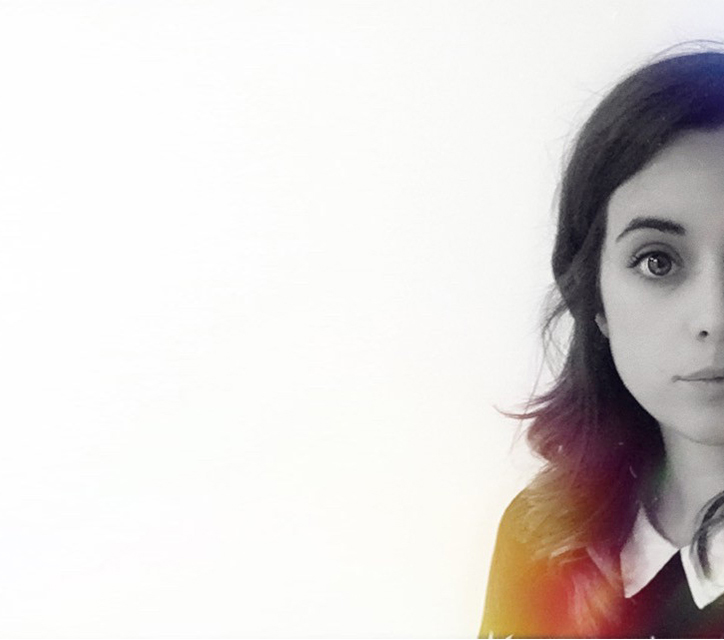
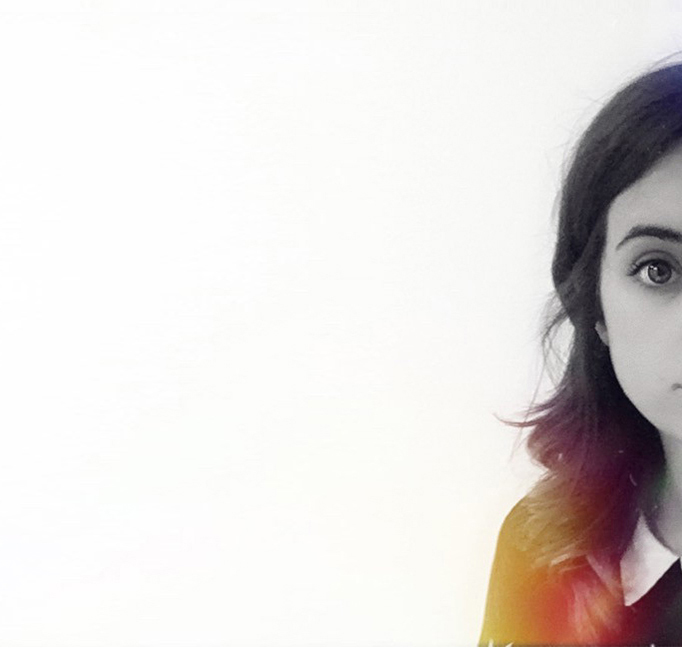
change photo mobile

Changed region(s): [[0.6466, 0.0625, 1.0, 1.0]]

diff --git a/docs/assets/css/main.css b/docs/assets/css/main.css
@@ -1,1 +1,1 @@
-*{margin:0;padding:0;list-style:none;text-decoration:none;border:none;outline:none;box-sizing:border-box}body{background-color:#242323;font-family:"Roboto",sans-serif;color:white;scroll-margin-top:50px}html{scroll-behavior:smooth}.header{width:100%;height:51px;background-color:#242323;position:fixed;top:0px;z-index:99}.header_hamburger{position:absolute;right:0;background-color:transparent;padding:15px 15px 12px 15px;transition:transform 0.25s cubic-bezier(0.05, 1.04, 0.72, 0.98);z-index:1002;cursor:pointer}.header_hamburger-line{background:white;margin-bottom:4px;border-radius:2px;width:28px;height:4px;opacity:1;transition:all 0.25s cubic-bezier(0.05, 1.04, 0.72, 0.98)}.header_hamburger:hover .top{transform:translateY(-100%)}.header_hamburger:hover .bottom{transform:translateY(100%)}.header_hamburger.is-active .top{transform:translateY(200%) rotate(45deg)}.header_hamburger.is-active .mid{opacity:0}.header_hamburger.is-active .bottom{transform:translateY(-200%) rotate(135deg)}.header_nav.is_active{transform:translate3d(0px, 0px, 0px)}.header_nav{background-color:#242323;height:100vh;position:absolute;right:0;opacity:0.9;transform:translate3d(0px, -100%, 0px);transition:transform 0.35s cubic-bezier(0.05, 1.04, 0.72, 0.98) 0s;z-index:1001}.header_nav_list{padding:80px 40px 40px 40px}.header_nav_list-title{text-align:right;font-weight:bold;padding-bottom:20px;font-size:1.5rem}.header_nav_list-title a{color:white}.header_nav_list-title a:hover{color:#f2bd1e}.main_sectionPhoto{padding:40px 30px;margin-top:50px;background-image:url("./../images/headerPhotosmall.jpg");background-size:cover;background-position:right center;height:80vh;scroll-margin-top:50px;color:#242323}@media (min-width: 768px){.main_sectionPhoto{padding:100px 60px;height:95vh}}@media (min-width: 1200px){.main_sectionPhoto{background-image:url("./../images/headerPhoto.jpg");padding:100px 100px}}.main_sectionPhoto-wrap{width:55%}@media (min-width: 768px){.main_sectionPhoto-wrap{width:60%}}@media (min-width: 1200px){.main_sectionPhoto-wrap{width:45%;max-width:1280px}}.main_sectionPhoto-wrap-title{font-size:30px;letter-spacing:10px;line-height:40px;font-weight:900;padding-bottom:20px}.main_sectionPhoto-wrap-title span{color:#f2bd1e}@media (min-width: 768px){.main_sectionPhoto-wrap-title{font-size:80px;letter-spacing:15px;line-height:100px;font-weight:900;padding-bottom:60px}}.main_sectionPhoto-wrap-subtitle{font-family:"Heebo",sans-serif;font-size:14px;line-height:24px;letter-spacing:3px;padding-bottom:20px}@media (min-width: 768px){.main_sectionPhoto-wrap-subtitle{font-size:24px;line-height:40px;letter-spacing:5px;padding-bottom:60px}}.main_sectionPhoto-wrap-description{font-family:"Heebo",sans-serif;font-size:9px;letter-spacing:1px;text-align:justify;width:90%}@media (min-width: 768px){.main_sectionPhoto-wrap-description{font-size:14px;letter-spacing:1.5px}}@media (min-width: 1200px){.main_sectionPhoto-wrap-description{font-size:18px;letter-spacing:2px}}.main_sectionEducation{background-color:#242323;color:white;scroll-margin-top:50px}.main_sectionEducation-title{text-align:center;font-weight:900;letter-spacing:3px;text-transform:uppercase;font-size:20px;padding:15px}@media (min-width: 768px){.main_sectionEducation-title{font-size:36px;padding:30px}}.main_sectionEducation-title span{color:#f2bd1e}.main_sectionEducation-list{color:#242323;padding-bottom:15px}.main_sectionEducation-list span{font-weight:bolder}@media (min-width: 768px){.main_sectionEducation-list{display:flex;flex-direction:column;align-items:center;padding-bottom:30px}}.main_sectionEducation-list .elementList{max-width:1000px;margin:auto;padding:7.5px 15px}@media (min-width: 768px){.main_sectionEducation-list .elementList{width:80vw;font-size:1.5rem}}.main_sectionEducation-list .elementList-date{font-size:12px;border-bottom:solid 1px black;padding:5px 0px;opacity:0.8}.main_sectionEducation-list .elementList-location{font-size:14px;padding:2.5px 0px 2.5px 0px}.main_sectionEducation-list .elementList-description{font-size:12px;padding:5px 0px 0px 10px}.main_sectionEducation-list-element1{background-color:#f2bd1e}.main_sectionEducation-list-element2{background-color:#dead1e}.main_sectionEducation-list-element3{background-color:#c99e1f}.main_sectionProfesional{background-image:url("./../images/profesional.png");background-size:cover;background-position:center center;scroll-margin-top:50px}@media (min-width: 768px){.main_sectionProfesional{display:flex;flex-direction:column;align-items:center;padding-bottom:30px}}.main_sectionProfesional_title{text-align:center;font-weight:900;letter-spacing:3px;text-transform:uppercase;font-size:20px;padding:15px}@media (min-width: 768px){.main_sectionProfesional_title{font-size:36px;padding:30px}}.main_sectionProfesional_title span{color:black}.main_sectionProfesional_developmentSoftware,.main_sectionProfesional_designSoftware{margin-bottom:25px}@media (min-width: 768px){.main_sectionProfesional_developmentSoftware,.main_sectionProfesional_designSoftware{width:80vw;font-size:1rem}}.main_sectionProfesional_developmentSoftware-title,.main_sectionProfesional_designSoftware-title{text-align:center;font-weight:400;color:#c99e1f;padding-bottom:10px}@media (min-width: 768px){.main_sectionProfesional_developmentSoftware-title,.main_sectionProfesional_designSoftware-title{font-size:22px}}.main_sectionProfesional_developmentSoftware-list,.main_sectionProfesional_designSoftware-list{padding:0px 15px 0px 15px;display:flex;flex-wrap:wrap;justify-content:center}.main_sectionProfesional_developmentSoftware-list-element,.main_sectionProfesional_designSoftware-list-element{padding:5px 10px;text-align:center;font-family:"Heebo",sans-serif;font-weight:400}.main_sectionProfesional_developmentSoftware-list-element i,.main_sectionProfesional_designSoftware-list-element i{padding-right:5px;color:#f2bd1e}@media (min-width: 768px){.main_sectionProfesional_developmentSoftware-list-element i,.main_sectionProfesional_designSoftware-list-element i{font-size:20px}}.main_sectionProfesional_skills{background-color:#242323;padding:15px;max-width:1000px;margin:auto}@media (min-width: 768px){.main_sectionProfesional_skills{width:80vw;font-size:1rem;height:130px;padding:25px}}.main_sectionProfesional_skills-title{color:#f2bd1e;position:absolute;padding:10px;height:100px;transform:rotate(-90deg)}@media (min-width: 768px){.main_sectionProfesional_skills-title{padding:0px;height:80px}}.main_sectionProfesional_skills-list{text-align:center}@media (min-width: 768px){.main_sectionProfesional_skills-list{display:grid;grid-template-columns:1fr 1fr 1fr;grid-template-rows:1fr 1fr 1fr}}.main_sectionProfesional_skills-list-element{padding:5px 10px;font-weight:lighter;text-align:center;font-size:14px}.main_sectionProfesional_skills-list-element div{font-size:12px;text-align:left;padding-left:5px;width:80%;height:15px;background-color:#f2bd1e;color:#242323}.main_sectionExperience{background-image:url("./../images/experience.png");background-size:cover;background-position:center center;color:#242323;background-color:white;scroll-margin-top:50px}.main_sectionExperience_title{text-align:center;font-weight:900;letter-spacing:3px;text-transform:uppercase;font-size:20px;color:#d3d3d3;padding:15px}.main_sectionExperience_title span{color:#242323}@media (min-width: 768px){.main_sectionExperience_title{font-size:36px;padding:30px}}.main_sectionExperience_list{max-width:1200px;margin:auto}.main_sectionExperience_list-element:nth-child(even){text-align:left}@media (min-width: 768px){.main_sectionExperience_list-element:nth-child(even){margin-left:50%;padding-left:30px;padding-right:100px}}.main_sectionExperience_list-element:nth-child(odd){text-align:right}@media (min-width: 768px){.main_sectionExperience_list-element:nth-child(odd){margin-right:50%;padding-right:30px;padding-left:100px}}.main_sectionExperience_list-element-date{color:#f2bd1e;font-weight:bold;font-size:14px;padding-bottom:5px;text-transform:uppercase}.main_sectionExperience_list-element-job{padding-bottom:5px}.main_sectionExperience_list-element-company{padding-bottom:5px;font-weight:inherit}.main_sectionExperience_list-element-description{font-size:14px;font-weight:lighter;padding-bottom:20px;text-align:justify}.main_sectionPortfolio{background-color:#f2bd1e;padding-bottom:15px;scroll-margin-top:50px}@media (min-width: 768px){.main_sectionPortfolio{padding-bottom:20px}}.main_sectionPortfolio_title{text-align:center;font-weight:900;letter-spacing:3px;text-transform:uppercase;font-size:20px;color:white;padding:15px}.main_sectionPortfolio_title span{color:#242323}@media (min-width: 768px){.main_sectionPortfolio_title{font-size:36px;padding:30px}}.main_sectionPortfolio_subtitle{font-weight:normal;text-align:center;padding-bottom:10px}.main_sectionPortfolio_subtitle a{color:#242323;cursor:pointer}@media (min-width: 768px){.main_sectionPortfolio_subtitle{font-size:1.2rem;padding-bottom:20px}}.main_sectionPortfolio_list{padding:0px 15px;display:flex;justify-content:center;flex-wrap:wrap}.main_sectionPortfolio_list-element{padding:15px;background-color:#242323;border-radius:5px;margin:10px;text-align:center;width:240px}.main_sectionPortfolio_list-element h4{padding-bottom:10px;font-size:16px;font-weight:400;text-transform:uppercase}.main_sectionPortfolio_list-element img{width:100%;border-radius:5px;margin-bottom:10px}.main_sectionPortfolio_list-element p{font-family:"Heebo",sans-serif;font-weight:100;line-height:14px;font-size:12px}.main_sectionPortfolio_list-element i{padding:15px 15px 0px 15px;font-size:24px;color:white}.main_sectionPortfolio_list-element i:hover{color:#f2bd1e}.main_sectionContact{color:#242323;background-color:white;padding-bottom:15px;scroll-margin-top:50px}@media (min-width: 768px){.main_sectionContact{padding-bottom:30px}}.main_sectionContact_title{text-align:center;font-weight:900;letter-spacing:3px;text-transform:uppercase;font-size:20px;color:#242323;padding:15px}.main_sectionContact_title span{color:#f2bd1e}@media (min-width: 768px){.main_sectionContact_title{font-size:36px;padding:30px}}.main_sectionContact_subtitle{text-align:center;font-weight:lighter;padding-bottom:10px}@media (min-width: 768px){.main_sectionContact_subtitle{padding-bottom:20px;font-size:18px}}.main_sectionContact_list{max-width:1200px;margin:auto}@media (min-width: 768px){.main_sectionContact_list{display:grid;grid-template-columns:repeat(3, 33.33%);padding:0 10%}}.main_sectionContact_list-element{padding:20px;text-align:center;color:white}@media (min-width: 768px){.main_sectionContact_list-element{height:250px;display:flex;justify-content:center;align-items:center}}.main_sectionContact_list-element i{font-size:34px;padding-bottom:10px}@media (min-width: 768px){.main_sectionContact_list-element i{font-size:46px}}.main_sectionContact_list-element a{color:white;cursor:pointer}.main_sectionContact_list-element.mail{background-image:url("./../images/contact.png");background-size:cover;background-position:center center;background-color:white;color:#242323}.main_sectionContact_list-element.mail a{color:#242323}.main_sectionContact_list-element.phone{background-image:url("./../images/phone.png");background-size:cover;background-position:center center;background-color:#f2bd1e}.main_sectionContact_list-element.linkedin{background-image:url("./../images/linkedin.png");background-size:cover;background-position:center center;background-color:#d3d3d3}.footer{padding:15px;text-align:center;color:#d3d3d3;font-weight:lighter;font-size:0.8rem}.menu-up{width:50px;height:50px;border-radius:25px;background-color:#242323;z-index:99;position:fixed;bottom:50px;right:40px}.menu-up i{font-size:30px;color:#f2bd1e;padding:10px}
+*{margin:0;padding:0;list-style:none;text-decoration:none;border:none;outline:none;box-sizing:border-box}body{background-color:#242323;font-family:"Roboto",sans-serif;color:white;scroll-margin-top:50px}html{scroll-behavior:smooth}.header{width:100%;height:51px;background-color:#242323;position:fixed;top:0px;z-index:99}.header_hamburger{position:absolute;right:0;background-color:transparent;padding:15px 15px 12px 15px;transition:transform 0.25s cubic-bezier(0.05, 1.04, 0.72, 0.98);z-index:1002;cursor:pointer}.header_hamburger-line{background:white;margin-bottom:4px;border-radius:2px;width:28px;height:4px;opacity:1;transition:all 0.25s cubic-bezier(0.05, 1.04, 0.72, 0.98)}.header_hamburger:hover .top{transform:translateY(-100%)}.header_hamburger:hover .bottom{transform:translateY(100%)}.header_hamburger.is-active .top{transform:translateY(200%) rotate(45deg)}.header_hamburger.is-active .mid{opacity:0}.header_hamburger.is-active .bottom{transform:translateY(-200%) rotate(135deg)}.header_nav.is_active{transform:translate3d(0px, 0px, 0px)}.header_nav{background-color:#242323;height:100vh;position:absolute;right:0;opacity:0.9;transform:translate3d(0px, -100%, 0px);transition:transform 0.35s cubic-bezier(0.05, 1.04, 0.72, 0.98) 0s;z-index:1001}.header_nav_list{padding:80px 40px 40px 40px}.header_nav_list-title{text-align:right;font-weight:bold;padding-bottom:20px;font-size:1.5rem}.header_nav_list-title a{color:white}.header_nav_list-title a:hover{color:#f2bd1e}.main_sectionPhoto{padding:40px 30px;margin-top:50px;background-image:url("./../images/headerPhotosmall.jpg");background-size:cover;background-position:right center;height:70vh;scroll-margin-top:50px;color:#242323}@media (min-width: 768px){.main_sectionPhoto{padding:100px 60px;background-image:url("./../images/headerPhotosmall.jpg");height:95vh}}@media (min-width: 1200px){.main_sectionPhoto{background-image:url("./../images/headerPhoto.jpg");padding:100px 100px}}.main_sectionPhoto-wrap{width:60%}@media (min-width: 1200px){.main_sectionPhoto-wrap{width:45%;max-width:1280px}}.main_sectionPhoto-wrap-title{font-size:30px;letter-spacing:10px;line-height:40px;font-weight:900;padding-bottom:20px}.main_sectionPhoto-wrap-title span{color:#f2bd1e}@media (min-width: 768px){.main_sectionPhoto-wrap-title{font-size:80px;letter-spacing:15px;line-height:100px;font-weight:900;padding-bottom:60px}}.main_sectionPhoto-wrap-subtitle{font-family:"Heebo",sans-serif;font-size:14px;line-height:20px;letter-spacing:3px;padding-bottom:20px}@media (min-width: 768px){.main_sectionPhoto-wrap-subtitle{font-size:24px;line-height:40px;letter-spacing:5px;padding-bottom:60px}}.main_sectionPhoto-wrap-description{font-family:"Heebo",sans-serif;font-size:9px;letter-spacing:1px;text-align:justify;width:90%}@media (min-width: 768px){.main_sectionPhoto-wrap-description{font-size:14px;letter-spacing:1.5px}}@media (min-width: 1200px){.main_sectionPhoto-wrap-description{font-size:18px;letter-spacing:2px}}.main_sectionEducation{background-color:#242323;color:white;scroll-margin-top:50px}.main_sectionEducation-title{text-align:center;font-weight:900;letter-spacing:3px;text-transform:uppercase;font-size:20px;padding:15px}@media (min-width: 768px){.main_sectionEducation-title{font-size:36px;padding:30px}}.main_sectionEducation-title span{color:#f2bd1e}.main_sectionEducation-list{color:#242323;padding-bottom:15px}.main_sectionEducation-list span{font-weight:bolder}@media (min-width: 768px){.main_sectionEducation-list{display:flex;flex-direction:column;align-items:center;padding-bottom:30px}}.main_sectionEducation-list .elementList{max-width:1000px;margin:auto;padding:7.5px 15px}@media (min-width: 768px){.main_sectionEducation-list .elementList{width:80vw;font-size:1.5rem}}.main_sectionEducation-list .elementList-date{font-size:12px;border-bottom:solid 1px black;padding:5px 0px;opacity:0.8}.main_sectionEducation-list .elementList-location{font-size:14px;padding:2.5px 0px 2.5px 0px}.main_sectionEducation-list .elementList-description{font-size:12px;padding:5px 0px 0px 10px}.main_sectionEducation-list-element1{background-color:#f2bd1e}.main_sectionEducation-list-element2{background-color:#dead1e}.main_sectionEducation-list-element3{background-color:#c99e1f}.main_sectionProfesional{background-image:url("./../images/profesional.png");background-size:cover;background-position:center center;scroll-margin-top:50px}@media (min-width: 768px){.main_sectionProfesional{display:flex;flex-direction:column;align-items:center;padding-bottom:30px}}.main_sectionProfesional_title{text-align:center;font-weight:900;letter-spacing:3px;text-transform:uppercase;font-size:20px;padding:15px}@media (min-width: 768px){.main_sectionProfesional_title{font-size:36px;padding:30px}}.main_sectionProfesional_title span{color:black}.main_sectionProfesional_developmentSoftware,.main_sectionProfesional_designSoftware{margin-bottom:25px}@media (min-width: 768px){.main_sectionProfesional_developmentSoftware,.main_sectionProfesional_designSoftware{width:80vw;font-size:1rem}}.main_sectionProfesional_developmentSoftware-title,.main_sectionProfesional_designSoftware-title{text-align:center;font-weight:400;color:#c99e1f;padding-bottom:10px}@media (min-width: 768px){.main_sectionProfesional_developmentSoftware-title,.main_sectionProfesional_designSoftware-title{font-size:22px}}.main_sectionProfesional_developmentSoftware-list,.main_sectionProfesional_designSoftware-list{padding:0px 15px 0px 15px;display:flex;flex-wrap:wrap;justify-content:center}.main_sectionProfesional_developmentSoftware-list-element,.main_sectionProfesional_designSoftware-list-element{padding:5px 10px;text-align:center;font-family:"Heebo",sans-serif;font-weight:400}.main_sectionProfesional_developmentSoftware-list-element i,.main_sectionProfesional_designSoftware-list-element i{padding-right:5px;color:#f2bd1e}@media (min-width: 768px){.main_sectionProfesional_developmentSoftware-list-element i,.main_sectionProfesional_designSoftware-list-element i{font-size:20px}}.main_sectionProfesional_skills{background-color:#242323;padding:15px;max-width:1000px;margin:auto}@media (min-width: 768px){.main_sectionProfesional_skills{width:80vw;font-size:1rem;height:130px;padding:25px}}.main_sectionProfesional_skills-title{color:#f2bd1e;position:absolute;padding:10px;height:100px;transform:rotate(-90deg)}@media (min-width: 768px){.main_sectionProfesional_skills-title{padding:0px;height:80px}}.main_sectionProfesional_skills-list{text-align:center}@media (min-width: 768px){.main_sectionProfesional_skills-list{display:grid;grid-template-columns:1fr 1fr 1fr;grid-template-rows:1fr 1fr 1fr}}.main_sectionProfesional_skills-list-element{padding:5px 10px;font-weight:lighter;text-align:center;font-size:14px}.main_sectionProfesional_skills-list-element div{font-size:12px;text-align:left;padding-left:5px;width:80%;height:15px;background-color:#f2bd1e;color:#242323}.main_sectionExperience{background-image:url("./../images/experience.png");background-size:cover;background-position:center center;color:#242323;background-color:white;scroll-margin-top:50px}.main_sectionExperience_title{text-align:center;font-weight:900;letter-spacing:3px;text-transform:uppercase;font-size:20px;color:#d3d3d3;padding:15px}.main_sectionExperience_title span{color:#242323}@media (min-width: 768px){.main_sectionExperience_title{font-size:36px;padding:30px}}.main_sectionExperience_list{padding:0px 25px;max-width:1200px;margin:auto}.main_sectionExperience_list-element:nth-child(even){text-align:left}@media (min-width: 768px){.main_sectionExperience_list-element:nth-child(even){margin-left:50%;padding-left:30px;padding-right:100px}}.main_sectionExperience_list-element:nth-child(odd){text-align:right}@media (min-width: 768px){.main_sectionExperience_list-element:nth-child(odd){margin-right:50%;padding-right:30px;padding-left:100px}}.main_sectionExperience_list-element-date{color:#f2bd1e;font-weight:bold;font-size:14px;padding-bottom:5px;text-transform:uppercase}.main_sectionExperience_list-element-job{padding-bottom:5px}.main_sectionExperience_list-element-company{padding-bottom:5px;font-weight:inherit}.main_sectionExperience_list-element-description{font-size:14px;font-weight:lighter;padding-bottom:20px;text-align:justify}.main_sectionPortfolio{background-color:#f2bd1e;padding-bottom:15px;scroll-margin-top:50px}@media (min-width: 768px){.main_sectionPortfolio{padding-bottom:20px}}.main_sectionPortfolio_title{text-align:center;font-weight:900;letter-spacing:3px;text-transform:uppercase;font-size:20px;color:white;padding:15px}.main_sectionPortfolio_title span{color:#242323}@media (min-width: 768px){.main_sectionPortfolio_title{font-size:36px;padding:30px}}.main_sectionPortfolio_subtitle{font-weight:normal;text-align:center;padding-bottom:10px}.main_sectionPortfolio_subtitle a{color:#242323;cursor:pointer}@media (min-width: 768px){.main_sectionPortfolio_subtitle{font-size:1.2rem;padding-bottom:20px}}.main_sectionPortfolio_list{padding:0px 15px;display:flex;justify-content:center;flex-wrap:wrap}.main_sectionPortfolio_list-element{padding:15px;background-color:#242323;border-radius:5px;margin:10px;text-align:center;width:240px}.main_sectionPortfolio_list-element h4{padding-bottom:10px;font-size:16px;font-weight:400;text-transform:uppercase}.main_sectionPortfolio_list-element img{width:100%;border-radius:5px;margin-bottom:10px}.main_sectionPortfolio_list-element p{font-family:"Heebo",sans-serif;font-weight:100;line-height:14px;font-size:12px}.main_sectionPortfolio_list-element i{padding:15px 15px 0px 15px;font-size:24px;color:white}.main_sectionPortfolio_list-element i:hover{color:#f2bd1e}.main_sectionContact{color:#242323;background-color:white;padding-bottom:15px;scroll-margin-top:50px}@media (min-width: 768px){.main_sectionContact{padding-bottom:30px}}.main_sectionContact_title{text-align:center;font-weight:900;letter-spacing:3px;text-transform:uppercase;font-size:20px;color:#242323;padding:15px}.main_sectionContact_title span{color:#f2bd1e}@media (min-width: 768px){.main_sectionContact_title{font-size:36px;padding:30px}}.main_sectionContact_subtitle{text-align:center;font-weight:lighter;padding-bottom:10px}@media (min-width: 768px){.main_sectionContact_subtitle{padding-bottom:20px;font-size:18px}}.main_sectionContact_list{max-width:1200px;margin:auto}@media (min-width: 768px){.main_sectionContact_list{display:grid;grid-template-columns:repeat(3, 33.33%);padding:0 10%}}.main_sectionContact_list-element{padding:20px;text-align:center;color:white}@media (min-width: 768px){.main_sectionContact_list-element{height:250px;display:flex;justify-content:center;align-items:center}}.main_sectionContact_list-element i{font-size:34px;padding-bottom:10px}@media (min-width: 768px){.main_sectionContact_list-element i{font-size:46px}}.main_sectionContact_list-element a{color:white;cursor:pointer}.main_sectionContact_list-element.mail{background-image:url("./../images/contact.png");background-size:cover;background-position:center center;background-color:white;color:#242323}.main_sectionContact_list-element.mail a{color:#242323}.main_sectionContact_list-element.phone{background-image:url("./../images/phone.png");background-size:cover;background-position:center center;background-color:#f2bd1e}.main_sectionContact_list-element.linkedin{background-image:url("./../images/linkedin.png");background-size:cover;background-position:center center;background-color:#d3d3d3}.footer{padding:15px;text-align:center;color:#d3d3d3;font-weight:lighter;font-size:0.8rem}.menu-up{width:50px;height:50px;border-radius:25px;background-color:#242323;z-index:99;position:fixed;bottom:30px;right:20px}@media (min-width: 768px){.menu-up{bottom:50px;right:40px}}.menu-up i{font-size:30px;color:#f2bd1e;padding:10px}

diff --git a/src/scss/layout/_photo.scss b/src/scss/layout/_photo.scss
@@ -4,9 +4,10 @@
   background-image: url("./../images/headerPhotosmall.jpg");
   background-size: cover;
   background-position: right center;
-  height: 80vh;
+  height: 70vh;
   @include tablet {
     padding: 100px 60px;
+    background-image: url("./../images/headerPhotosmall.jpg");
     height: 95vh;
   }
   @include desktop {
@@ -18,10 +19,7 @@
 
   color: $color-grey-dark;
   &-wrap {
-    width: 55%;
-    @include tablet {
-      width: 60%;
-    }
+    width: 60%;
     @include desktop {
       width: 45%;
       max-width: 1280px;
@@ -48,7 +46,7 @@
     &-subtitle {
       font-family: $font-thin;
       font-size: 14px;
-      line-height: 24px;
+      line-height: 20px;
       letter-spacing: 3px;
 
       padding-bottom: 20px;

diff --git a/src/scss/layout/_footer.scss b/src/scss/layout/_footer.scss
@@ -11,12 +11,16 @@
   border-radius: 25px;
   background-color: $color-grey-dark;
   z-index: 99;
+  position: fixed;
+  bottom: 30px;
+  right: 20px;
+  @include tablet {
+    bottom: 50px;
+    right: 40px;
+  }
   i {
     font-size: 30px;
     color: $color-yellow-light;
     padding: 10px;
   }
-  position: fixed;
-  bottom: 50px;
-  right: 40px;
 }

diff --git a/src/scss/layout/_experience.scss b/src/scss/layout/_experience.scss
@@ -5,6 +5,7 @@
   color: $color-grey-dark;
   background-color: white;
   scroll-margin-top: 50px;
+
   &_title {
     text-align: center;
     font-weight: 900;
@@ -31,6 +32,7 @@
     }
   }*/
   &_list {
+    padding: 0px 25px;
     max-width: 1200px;
     margin: auto;
     &-element {
